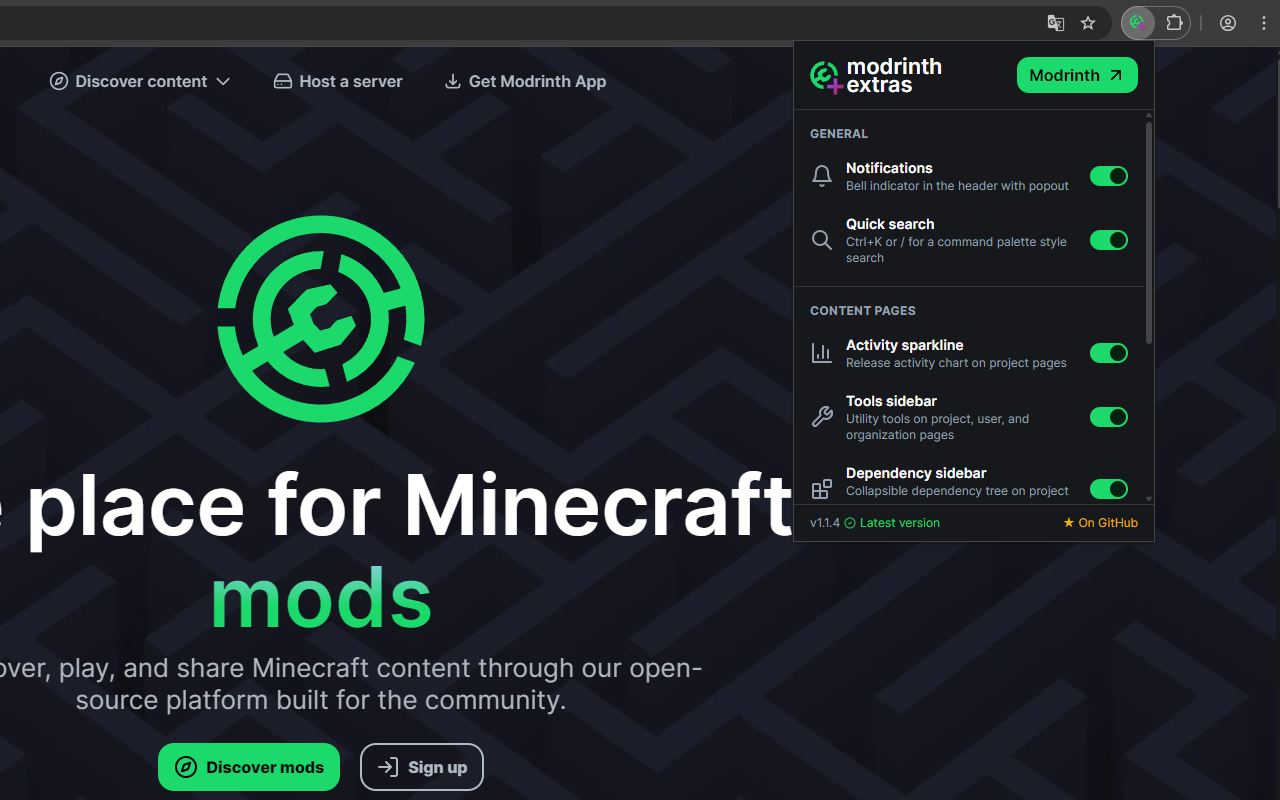
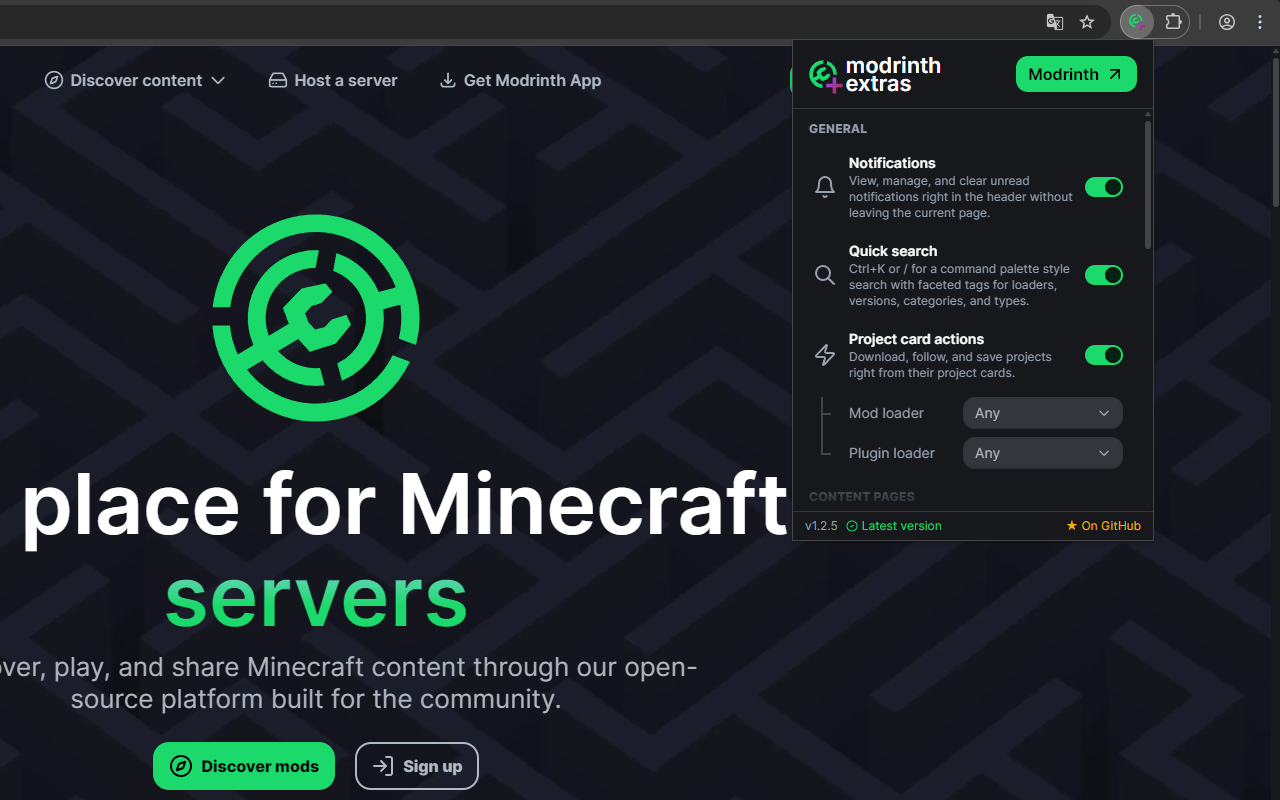
Fix project action cards desc and layout

diff --git a/src/entrypoints/popup/App.vue b/src/entrypoints/popup/App.vue
@@ -199,7 +199,7 @@ const GENERAL_FEATURES: FeatureDef[] = [
 		icon: SearchIcon,
 		title: 'Quick search',
 		description:
-			'Command palette-style search with faceted tags for loader, version, category, and type.',
+			'Ctrl+K or / for a command palette style search with faceted tags for loaders, versions, categories, and types.',
 	},
 	{
 		key: 'projectCardActions',

diff --git a/src/entrypoints/popup/components/FeatureRow.vue b/src/entrypoints/popup/components/FeatureRow.vue
@@ -41,10 +41,8 @@
 			</button>
 		</div>
 		<Collapsible :collapsed="!(modelValue && hasOptionsSlot)" overflow-visible>
-			<div class="px-2 pb-2">
-				<div class="flex flex-col gap-2 py-1 pl-9">
-					<slot />
-				</div>
+			<div class="flex flex-col gap-2 p-2 pl-11">
+				<slot />
 			</div>
 		</Collapsible>
 	</div>

diff --git a/README.md b/README.md
@@ -40,7 +40,7 @@ View, manage, and clear unread notifications right in the header without leaving
 
 ### Quick search
 
-Command palette-style search with faceted tags for loader, version, category, and type.
+Ctrl+K or / for a command palette style search with faceted tags for loaders, versions, categories, and types.
 
 <img src=".github/assets/screenshots/quicksearch.gif" width="100%">
 
